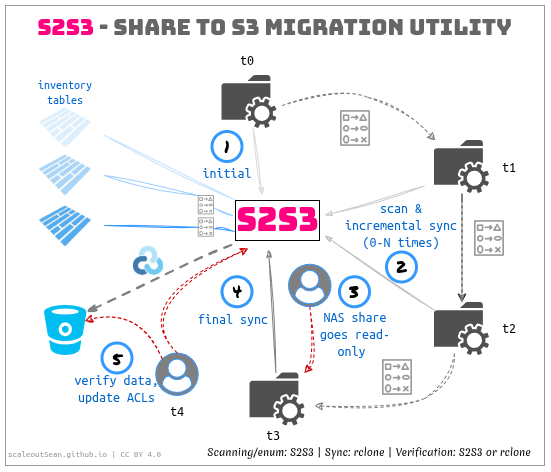
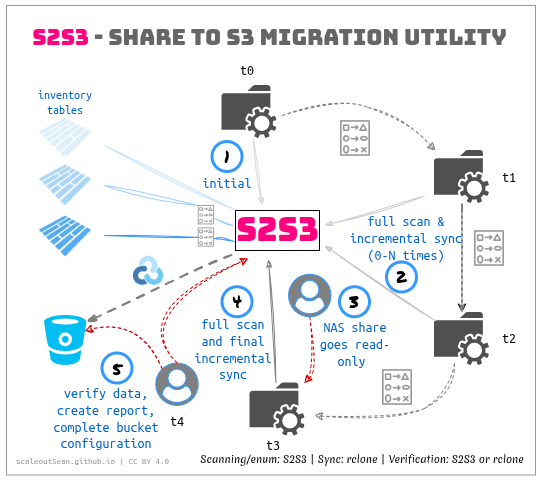
docs: small enhancements, fix a typo

diff --git a/README.md b/README.md
@@ -68,11 +68,11 @@ Some extra musings can be [found in my inaugural S2S3 blog post](http://scaleout
 ## Workflow
 
 - Calibrate to find the optimal workload for NFS and S3
-- Build inventory and perform the initial coipy
-  - Perform additional rounds of "full inventory & incremental sync" if needed
-- Final full inventory on read-only NAS export, and incremental sync from NAS
-- Verification and report
-- Switch-over (S3 ACLs are modified to allow S3 modify actions to other users)
+- Build inventory and perform the initial copy
+  - Perform additional rounds of "full inventory + incremental sync" if needed
+- Final full inventory on a *read-only* NAS export, and an incremental sync from NAS to S3
+- Verification and (if needed) report
+- Switch-over (S3 ACLs need to be  modified to allow S3 modify actions to other users)
 
 ## Calibrate source and target
 
@@ -311,7 +311,7 @@ During a migration, regular users are normally not allowed to modify the destina
 
 But you may have a situation where applications need to be tested, and they need to delete or add data. In this situation you may need to use `rclone copy` and even perform more extensive planning.
 
-For example, it is better to make a copy for testing in different test bucket, than modify a workflow to work around whatever unpredictable stuff happens when a target is live before migration is done. `export` lets you get a list that you can use to copy a subset of data to a separate bucket and perform pre-switchover testing there. 
+For example, it is better to make a copy for testing in different test bucket, than modify a workflow to work around whatever unpredictable stuff happens when a target is live before migration is done. `export` lets you get a list that you can use to copy a subset of data to a separate bucket and perform pre-switchover testing there. You can also use my [sg-cosi or SGII](https://github.com/scaleoutsean/sg-cosi/) utility to create writable or read-only bucket snapshots for testing for free. Or do that from the StorageGRID UI.
 
 Another example: if your application requires or uses Versioning or Object Lock, you probably don't want to allow Put/Delete on objects before switch-over. But if the application requires Versioning, that also means you can't test before switch-over. Therefore:
 - Good: use a test bucket for pre-switch-over testing. Enable Versioning, Object Lock, ILM when it suits your business requirements.
